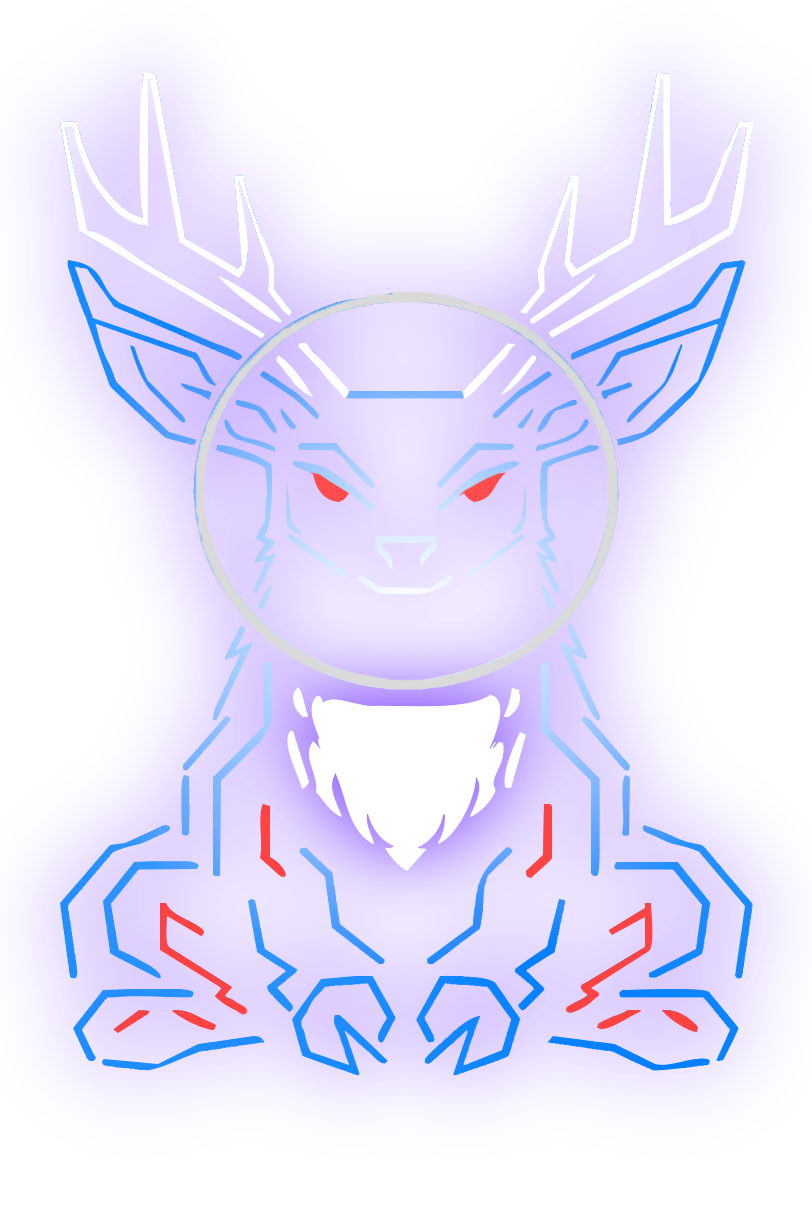
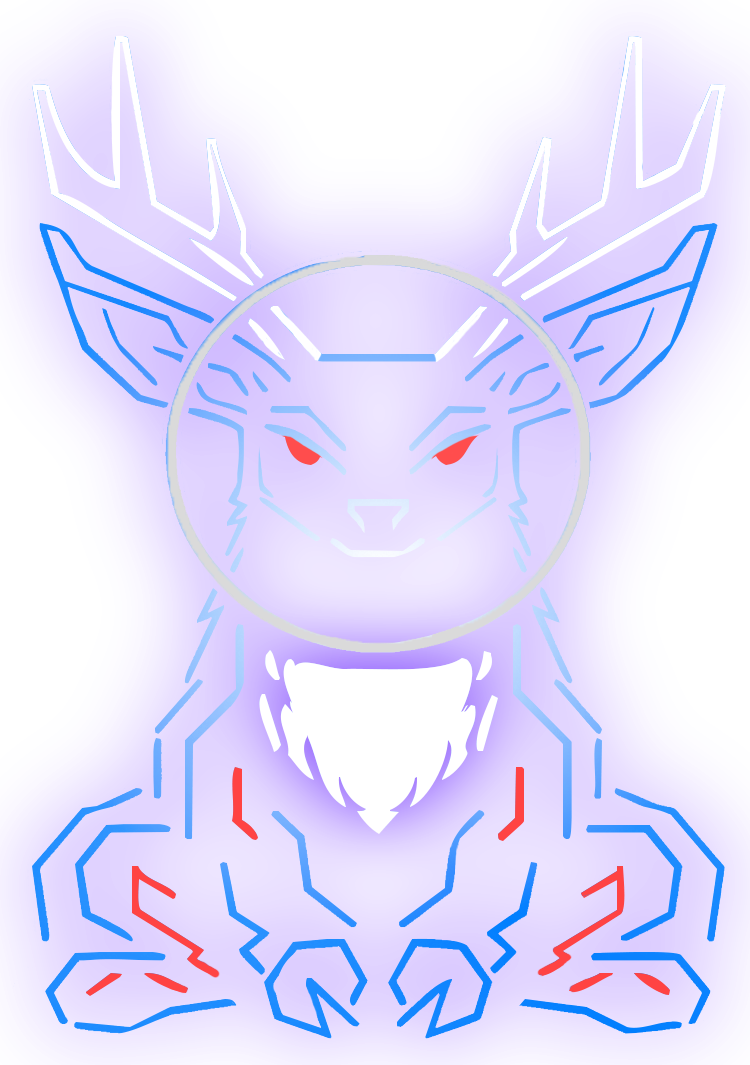
Fix Deer Boss Box

Changed region(s): [[0.0307, 0.062, 0.9813, 0.9915], [0.4907, 0.4648, 0.5213, 0.4958]]

diff --git a/Main.cpp b/Main.cpp
@@ -1464,7 +1464,7 @@ private:
     //WAVE 5 BOSS PART 1
    void SpawnWave5() {
         entities.push_back(new Enemy_Deer(700.0f, 480.0f,false, textureCerf));
-        entities.push_back(new Enemy_FraiseBoss(700.0f, 500.0f , textureBossStage_1_2));
+        entities.push_back(new Enemy_FraiseBoss(700.0f, 300.0f , textureBossStage_1_2));
 
     }
 
@@ -1907,8 +1907,8 @@ private:
                         SDL_FRect rectBullet = {
                             bullet->transform.position.x,
                             bullet->transform.position.y,
-                            bullet->transform.size.x,
-                            bullet->transform.size.y
+                            bullet->transform.size.x ,
+                            bullet->transform.size.y,
                         };
                         //Creation Collision des ennemies
                         SDL_FRect rectEnnemi = {

diff --git a/Personnages.cpp b/Personnages.cpp
@@ -176,7 +176,7 @@ Enemy_FraiseBoss::Enemy_FraiseBoss(float startX, float  startY, SDL_Texture *tex
     render.color = { 139, 69, 19, 255 };//couleur brun
     AddComponent (TRANSFORM);
     transform.position = { startX, startY };
-    transform.size = { 80.f, 80.f };
+    transform.size = { 300.f, 400.f };
 
     //Le type d'entity
     entityType = EntityType::Enemy;
